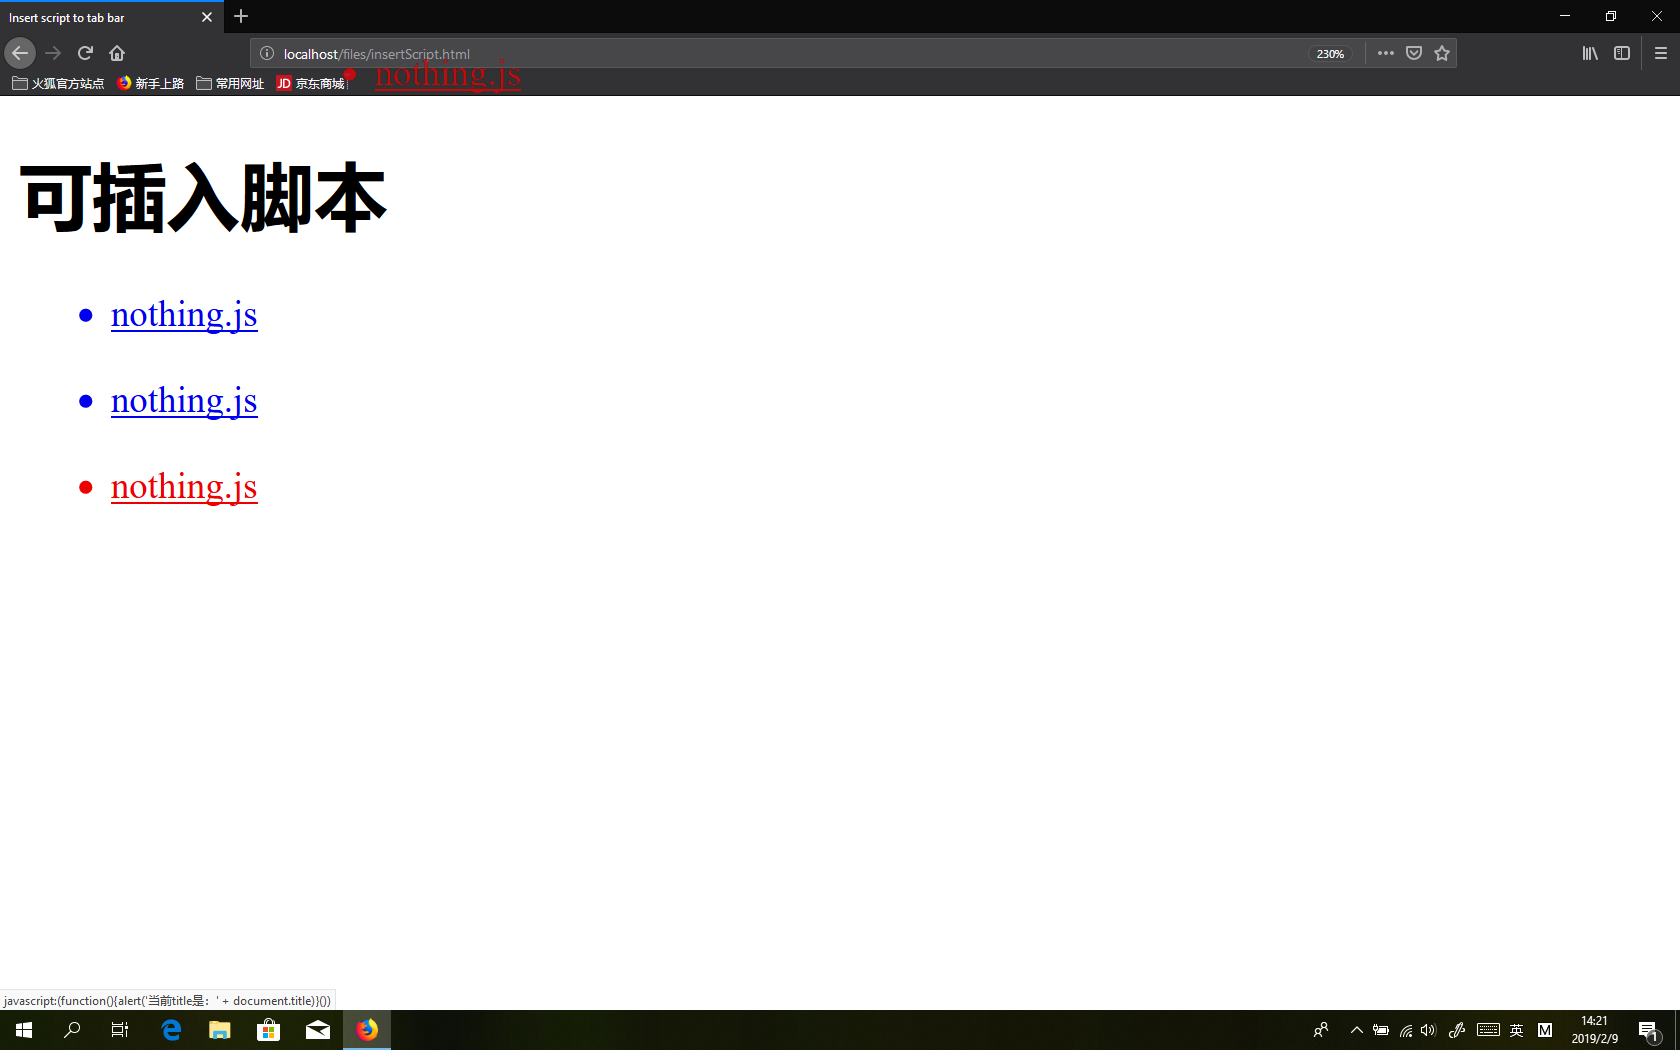
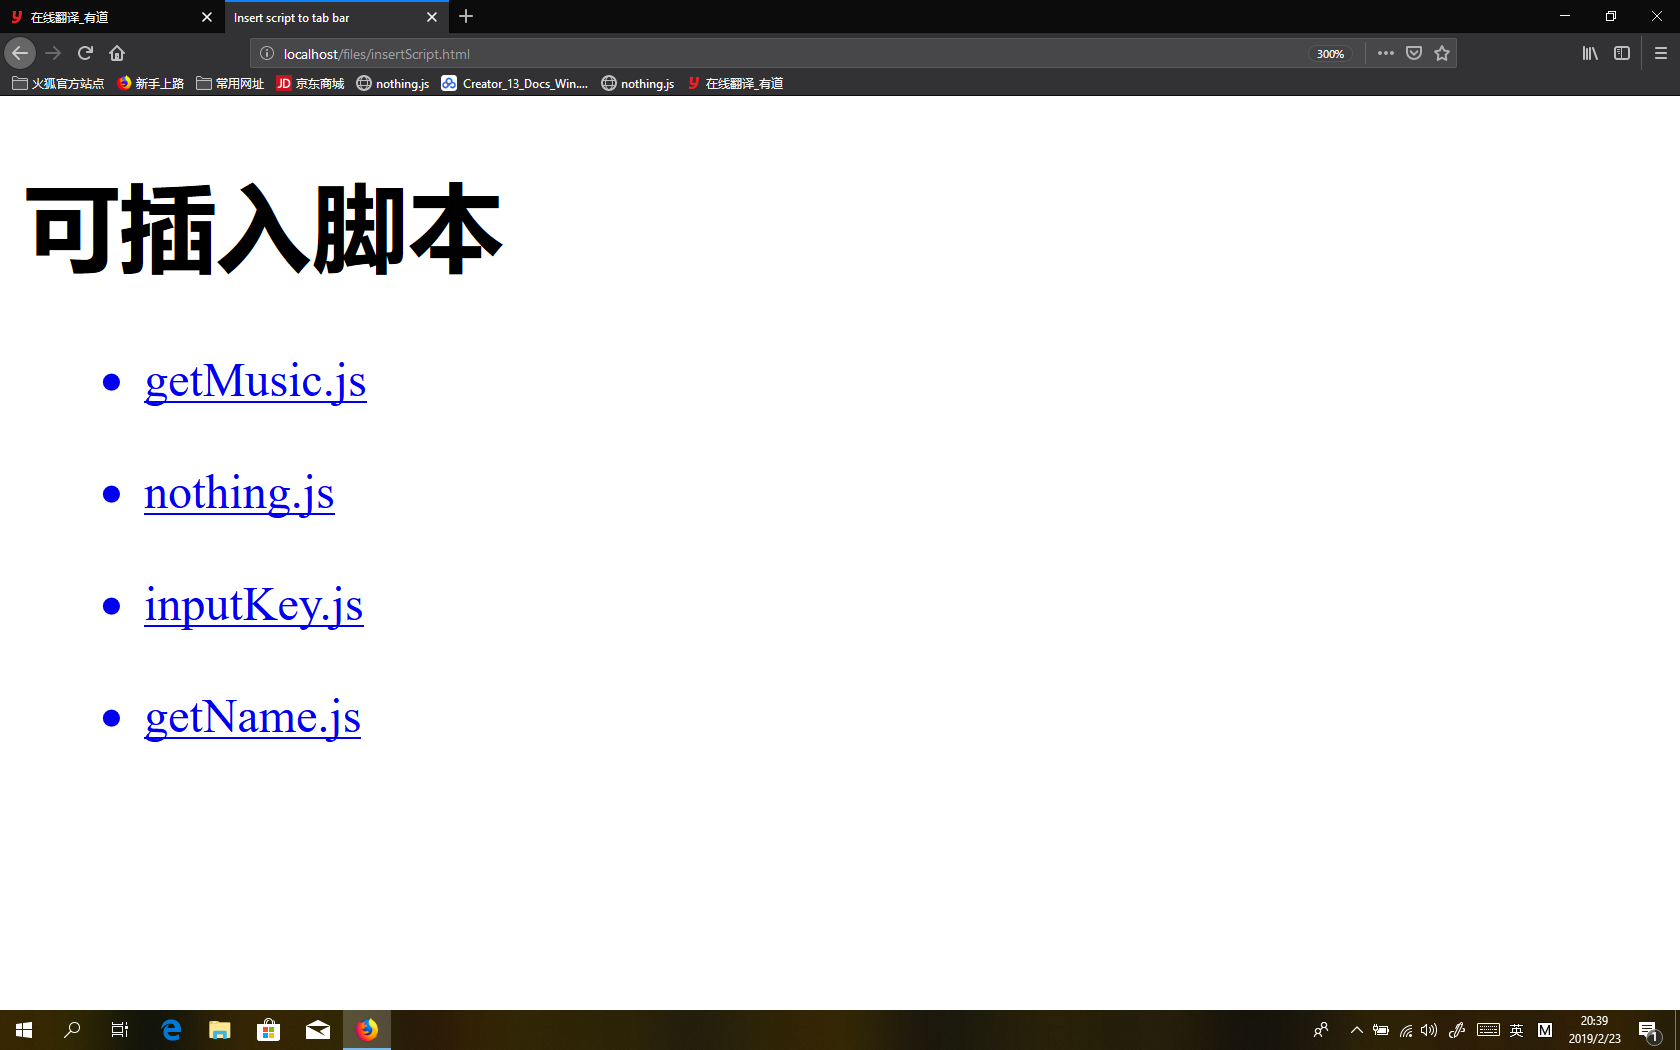
fixed file name exception

diff --git a/www/files/insertScript.html b/www/files/insertScript.html
@@ -1,5 +1,6 @@
 <!DOCTYPE html>
 <html lang="en">
+
 <head>
     <meta charset="UTF-8">
     <meta name="viewport" content="width=device-width, initial-scale=1.0">
@@ -7,12 +8,13 @@
     <title>Insert script to tab bar</title>
     <script src="../js/jquery331.js"></script>
 </head>
+
 <body>
     <h1>可插入脚本</h1>
     <ul id="fileList">
-        
+
     </ul>
-    
+
     <script>
         function basename(str) {
             var idx = str.lastIndexOf('/')
@@ -24,44 +26,48 @@
         }
 
         // 获取文件后缀 如 readme.md 返回 .md
-        function suffix(str){
+        function suffix(str) {
             var result = str.match(/\..*$/)
-            if(result){
+            if (result) {
                 return result[0]
             }
         }
 
-        
+        // 添加一个脚本
+        function addScript(fileName, fileList) {
+            $.get("/script/" + fileName, function (data, status) {
+                // 统计参数的数量
+                console.log(arguments.length)
+
+                // 这里其实实现了脚本的异步加载
+                // 构建链接
+                var theLinkToFile = $("<a></a>")
+                theLinkToFile.attr("href", "javascript:(function(){" +
+                    data + "}())")
+                theLinkToFile.append("<li>" + fileName + "</li>")
+                fileList.append(theLinkToFile)
+                fileList.append("<br>")
+            })
+        }
 
         $(document).ready(function () {
             $.get("/name?pwd=script", function (data, status) {
                 console.log(data)
                 var fileList = $('#fileList')
 
-                for(var index in data){
+                for (var index in data) {
                     // 筛选出后缀为 .js 的文件
-                    if(suffix(data[index]) !== '.js'){
+                    if (suffix(data[index]) !== '.js') {
                         continue
                     }
 
                     var fileName = data[index]
                     // 获取文件中的内容
-                    $.get("/script/"+fileName, function(data, status){
-                        // 统计参数的数量
-                        console.log(arguments.length)
-
-                        // 这里其实实现了脚本的异步加载
-                        // 构建链接
-                        var theLinkToFile = $("<a></a>")
-                        theLinkToFile.attr("href", "javascript:(function(){"+
-                            data + "}())")
-                        theLinkToFile.append("<li>"+fileName+"</li>")
-                        fileList.append(theLinkToFile)
-                        fileList.append("<br>")
-                    })
+                    addScript(fileName, fileList);
                 }
             })
         })
     </script>
 </body>
+
 </html>
